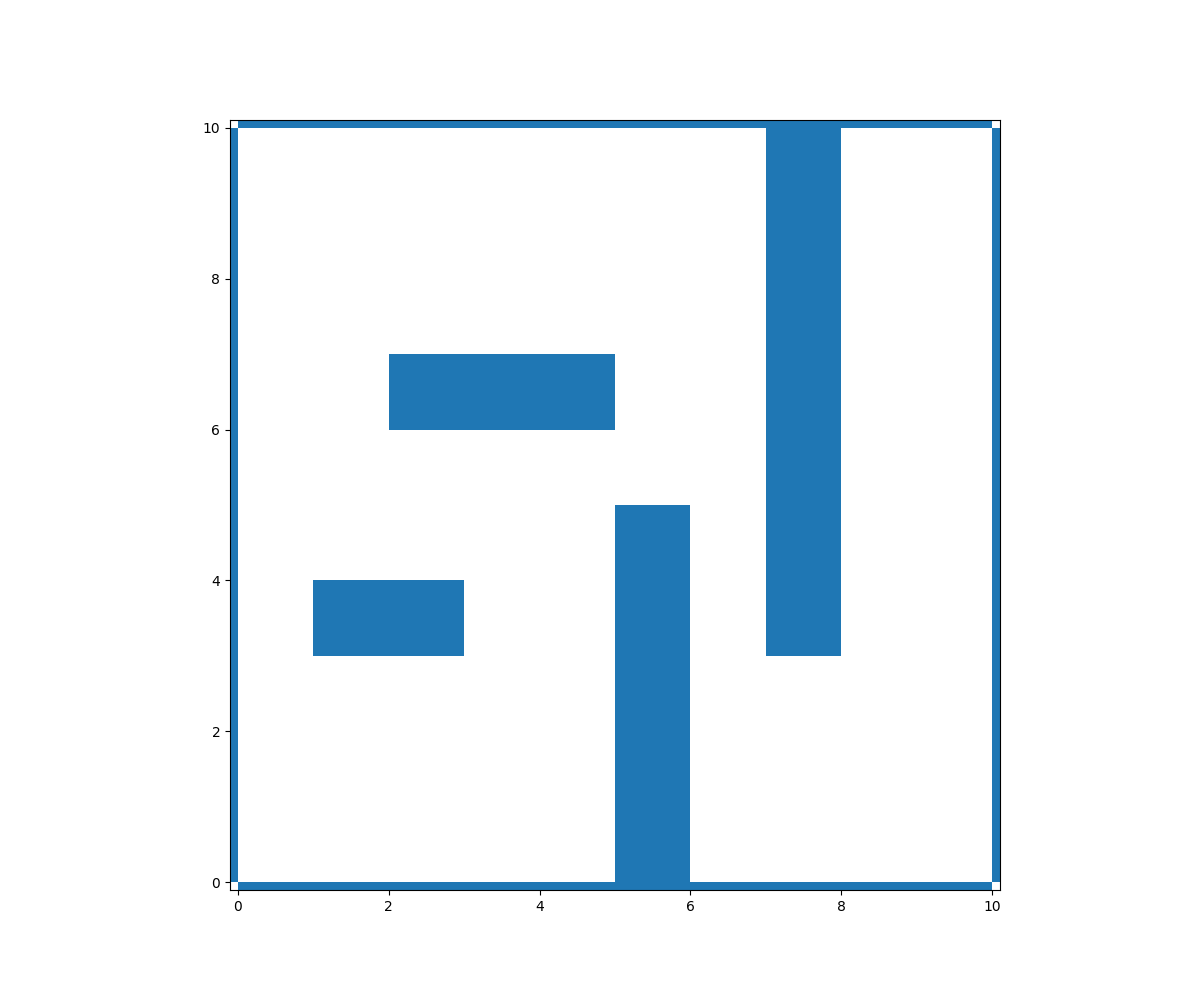
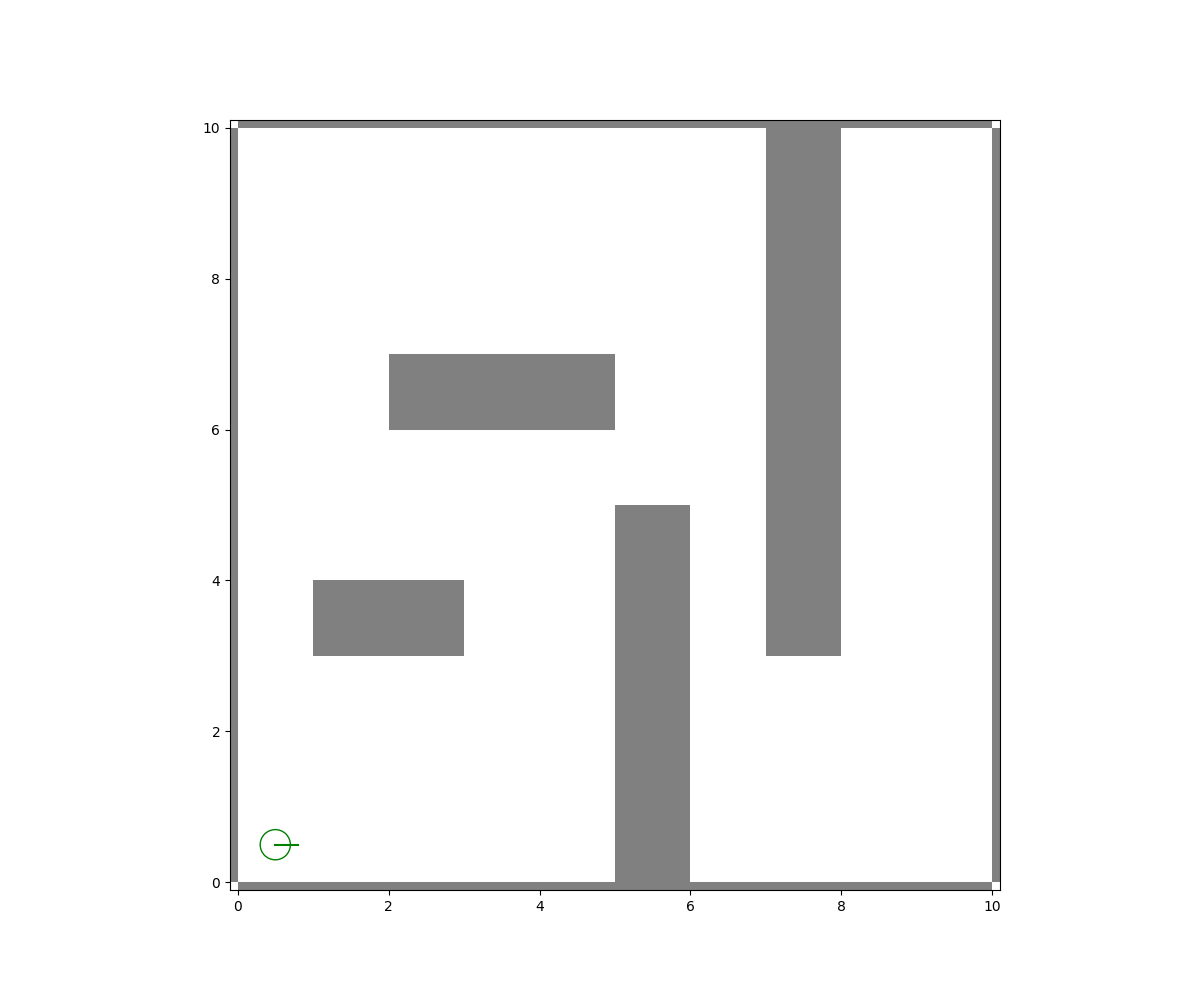
add: robot initialze function

Changed region(s): [[0.185, 0.124, 0.8325, 0.899], [0.3083, 0.341, 0.5242, 0.434], [0.2467, 0.558, 0.4008, 0.682]]

diff --git a/domain/robot.py b/domain/robot.py
@@ -1,6 +1,9 @@
 from handler.senser import Senser
 from handler.motor import Motor
-from params.motor_params import position_noise_rate, angle_noise_rate
+from params.motor_params import (
+    position_noise_rate, angle_noise_rate,
+    init_position, init_angle
+)
 
 
 class Robot:
@@ -13,13 +16,17 @@ class Robot:
         self.__senser: Senser = senser
         self.__motor: Motor = motor
 
+    def set(self) -> bool:
+        is_success: bool = self.__motor.set_init_status(
+            position=init_position, angle=init_angle
+        )
+        return is_success
+
     def add_motor_noise(self) -> bool:
         is_success: bool = self.__motor.set_noise_rate(
             position_noise_rate, angle_noise_rate
         )
         return is_success
-
-
 
     def scan(self) -> bool:
         is_success: bool = self.__senser.scan()

diff --git a/handler/motor.py b/handler/motor.py
@@ -16,6 +16,10 @@ class Motor:
         self.__position_noise_rate: float = 0.0
         self.__angle_noise_rate: float = 0.0
 
+    def set_init_status(self, position: np.ndarray, angle: float) -> bool:
+        is_success = self.__status_controller.push_with_arr(position, angle)
+        return is_success
+
     def set_noise_rate(
         self,
         position_noise_rate: float,

diff --git a/params/motor_params.py b/params/motor_params.py
@@ -1,2 +1,9 @@
+import numpy as np
+
+
 position_noise_rate = 0.3
 angle_noise_rate = 0.1
+
+# Initial status
+init_position: np.ndarray = np.array([0.5, 0.5])
+init_angle: np.ndarray = 0.0
